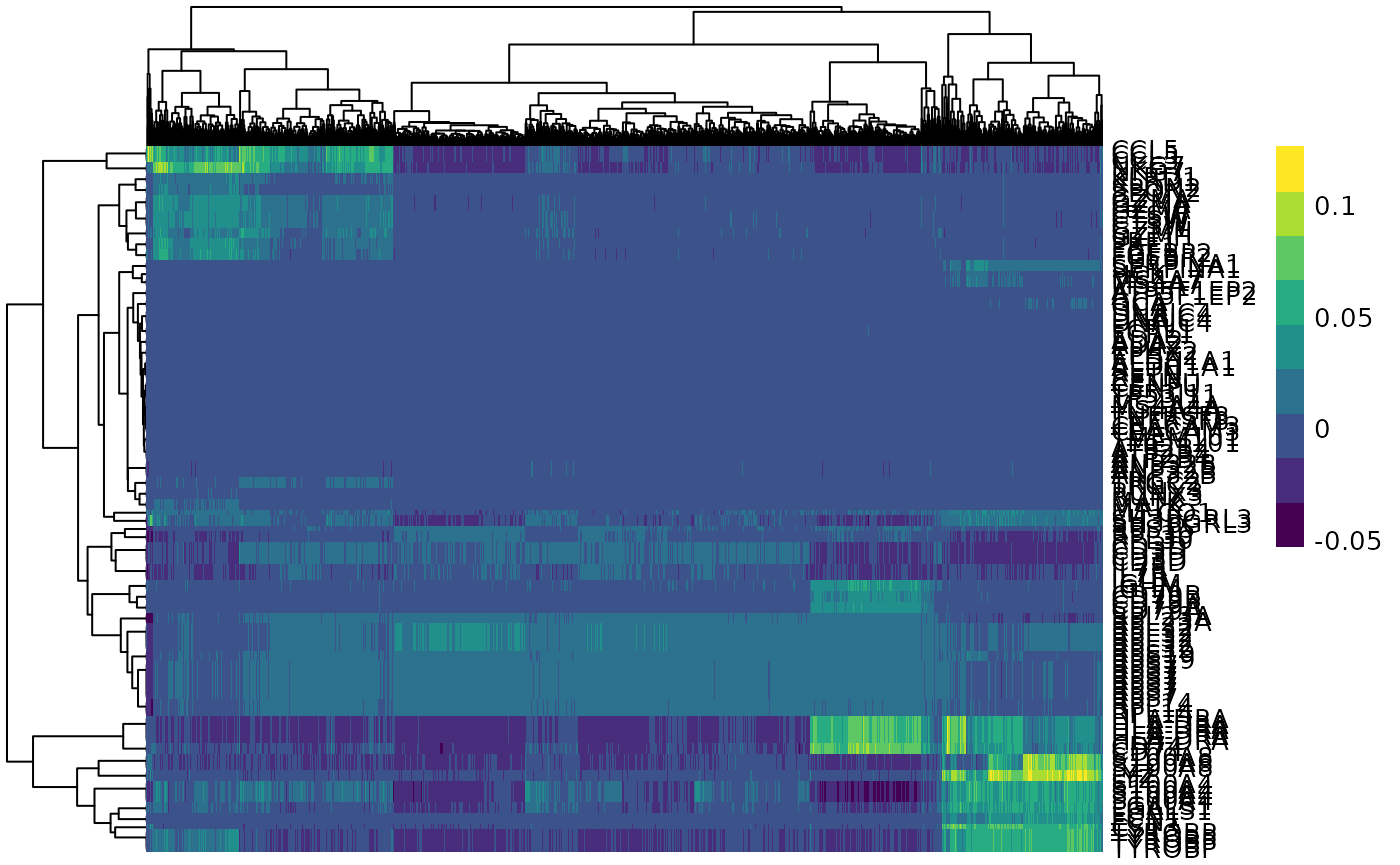
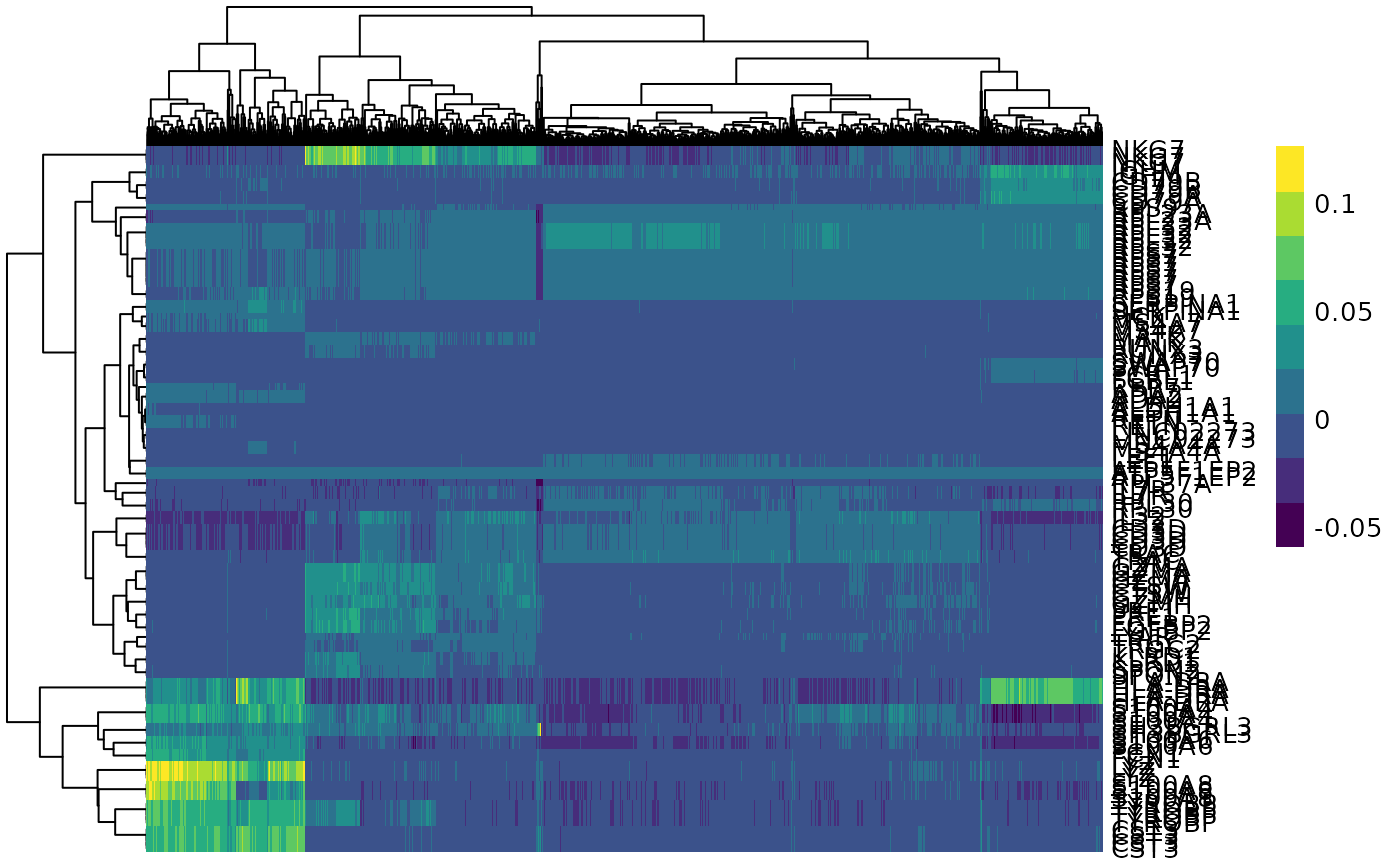
Deploying to gh-pages from  @ 24e37c9099eb5daeb69c3d5ff32cea5050fb19c2 🚀

diff --git a/articles/tidytranscriptomics.html b/articles/tidytranscriptomics.html
@@ -1443,13 +1443,13 @@ background-color: #fff4d4;
 <span class="co">#&gt;    cell  label batch groups sample orig.ident nCount_RNA nFeature_RNA  S.Score</span>
 <span class="co">#&gt;    &lt;chr&gt; &lt;fct&gt; &lt;int&gt; &lt;chr&gt;  &lt;chr&gt;  &lt;chr&gt;           &lt;dbl&gt;        &lt;int&gt;    &lt;dbl&gt;</span>
 <span class="co">#&gt;  1 CCAG… 5         1 1      GSE11… SeuratPro…       3421          979 -5.42e-2</span>
-<span class="co">#&gt;  2 ATGA… 11        1 2      GSE11… SeuratPro…       2752          898 -5.01e-2</span>
-<span class="co">#&gt;  3 TATG… 8         1 2      GSE11… SeuratPro…       2114          937 -2.95e-5</span>
-<span class="co">#&gt;  4 CATA… 13        1 1      GSE11… SeuratPro…       3122         1086 -6.65e-2</span>
+<span class="co">#&gt;  2 ATGA… 3         1 2      GSE11… SeuratPro…       2752          898 -5.01e-2</span>
+<span class="co">#&gt;  3 TATG… 7         1 2      GSE11… SeuratPro…       2114          937 -2.95e-5</span>
+<span class="co">#&gt;  4 CATA… 11        1 1      GSE11… SeuratPro…       3122         1086 -6.65e-2</span>
 <span class="co">#&gt;  5 GAGG… 1         1 2      GSE11… SeuratPro…       2341          957 -3.74e-3</span>
-<span class="co">#&gt;  6 AGCT… 4         1 1      GSE11… SeuratPro…       5472         1758 -5.88e-2</span>
-<span class="co">#&gt;  7 TGAT… 2         1 1      GSE11… SeuratPro…       1258          542 -2.51e-2</span>
-<span class="co">#&gt;  8 ACGA… 2         1 1      GSE11… SeuratPro…       7683         1926 -1.33e-1</span>
+<span class="co">#&gt;  6 AGCT… 2         1 1      GSE11… SeuratPro…       5472         1758 -5.88e-2</span>
+<span class="co">#&gt;  7 TGAT… 4         1 1      GSE11… SeuratPro…       1258          542 -2.51e-2</span>
+<span class="co">#&gt;  8 ACGA… 4         1 1      GSE11… SeuratPro…       7683         1926 -1.33e-1</span>
 <span class="co">#&gt;  9 CGGC… 5         1 1      GSE11… SeuratPro…       3500         1092 -6.87e-2</span>
 <span class="co">#&gt; 10 ATAG… 5         1 1      GSE11… SeuratPro…       3092          974 -1.24e-2</span>
 <span class="co">#&gt; # … with 2,889 more rows, and 15 more variables: G2M.Score &lt;dbl&gt;, ident &lt;fct&gt;,</span>
@@ -1461,22 +1461,20 @@ background-color: #fff4d4;
 <div class="sourceCode" id="cb66"><pre class="downlit sourceCode r">
 <code class="sourceCode R"><span class="va">pbmc</span> <span class="op">%&gt;%</span> <span class="fu"><a href="https://rdrr.io/pkg/tidySingleCellExperiment/man/count.html">count</a></span><span class="op">(</span><span class="va">label</span><span class="op">)</span>
 <span class="co">#&gt; tidySingleCellExperiment says: A data frame is returned for independent data analysis.</span>
-<span class="co">#&gt; # A tibble: 13 x 2</span>
+<span class="co">#&gt; # A tibble: 11 x 2</span>
 <span class="co">#&gt;    label     n</span>
 <span class="co">#&gt;    &lt;fct&gt; &lt;int&gt;</span>
-<span class="co">#&gt;  1 1       437</span>
-<span class="co">#&gt;  2 2       350</span>
-<span class="co">#&gt;  3 3        16</span>
-<span class="co">#&gt;  4 4       529</span>
+<span class="co">#&gt;  1 1       481</span>
+<span class="co">#&gt;  2 2       563</span>
+<span class="co">#&gt;  3 3       734</span>
+<span class="co">#&gt;  4 4       351</span>
 <span class="co">#&gt;  5 5       339</span>
 <span class="co">#&gt;  6 6        21</span>
-<span class="co">#&gt;  7 7       473</span>
-<span class="co">#&gt;  8 8       257</span>
-<span class="co">#&gt;  9 9        74</span>
-<span class="co">#&gt; 10 10       41</span>
-<span class="co">#&gt; 11 11      322</span>
-<span class="co">#&gt; 12 12       14</span>
-<span class="co">#&gt; 13 13       26</span></code></pre></div>
+<span class="co">#&gt;  7 7       255</span>
+<span class="co">#&gt;  8 8        74</span>
+<span class="co">#&gt;  9 9        41</span>
+<span class="co">#&gt; 10 10       14</span>
+<span class="co">#&gt; 11 11       26</span></code></pre></div>
 </div>
 <div id="reduce-dimensions" class="section level2">
 <h2 class="hasAnchor">
@@ -1586,22 +1584,20 @@ background-color: #fff4d4;
   <span class="fu"><a href="https://rdrr.io/pkg/tidySingleCellExperiment/man/dplyr-methods.html">select</a></span><span class="op">(</span><span class="va">label</span>, <span class="va">first.labels</span><span class="op">)</span>
 
 <span class="va">cell_type</span>
-<span class="co">#&gt; # A tibble: 13 x 2</span>
+<span class="co">#&gt; # A tibble: 11 x 2</span>
 <span class="co">#&gt;    label first.labels   </span>
 <span class="co">#&gt;    &lt;chr&gt; &lt;chr&gt;          </span>
 <span class="co">#&gt;  1 1     NK cells       </span>
-<span class="co">#&gt;  2 2     B-cells        </span>
-<span class="co">#&gt;  3 3     B-cells        </span>
-<span class="co">#&gt;  4 4     Fibroblasts    </span>
+<span class="co">#&gt;  2 2     Fibroblasts    </span>
+<span class="co">#&gt;  3 3     Skeletal muscle</span>
+<span class="co">#&gt;  4 4     B-cells        </span>
 <span class="co">#&gt;  5 5     Monocytes      </span>
 <span class="co">#&gt;  6 6     Smooth muscle  </span>
-<span class="co">#&gt;  7 7     Skeletal muscle</span>
-<span class="co">#&gt;  8 8     NK cells       </span>
-<span class="co">#&gt;  9 9     Neutrophils    </span>
-<span class="co">#&gt; 10 10    Macrophages    </span>
-<span class="co">#&gt; 11 11    Skeletal muscle</span>
-<span class="co">#&gt; 12 12    B-cells        </span>
-<span class="co">#&gt; 13 13    Monocytes</span></code></pre></div>
+<span class="co">#&gt;  7 7     NK cells       </span>
+<span class="co">#&gt;  8 8     Neutrophils    </span>
+<span class="co">#&gt;  9 9     Macrophages    </span>
+<span class="co">#&gt; 10 10    B-cells        </span>
+<span class="co">#&gt; 11 11    Monocytes</span></code></pre></div>
 <p>We join the cell type information to our pbmc data.</p>
 <div class="sourceCode" id="cb74"><pre class="downlit sourceCode r">
 <code class="sourceCode R"><span class="co"># Join cell type info</span>

diff --git a/index.html b/index.html
@@ -88,7 +88,7 @@
 <div id="syllabus" class="section level2">
 <h2 class="hasAnchor">
 <a href="#syllabus" class="anchor"></a>Syllabus</h2>
-<p>Material <a href="https://tidy-transcriptomics-workshops.github.io/ismb2021_tidytranscriptomics/articles/tidytranscriptomics.html">web page</a>.</p>
+<p>Material <a href="https://tidytranscriptomics-workshops.github.io/ismb2021_tidytranscriptomics/articles/tidytranscriptomics.html">web page</a>.</p>
 <p>More details on the workshop are below.</p>
 </div>
 <div id="workshop-package-installation" class="section level2">
